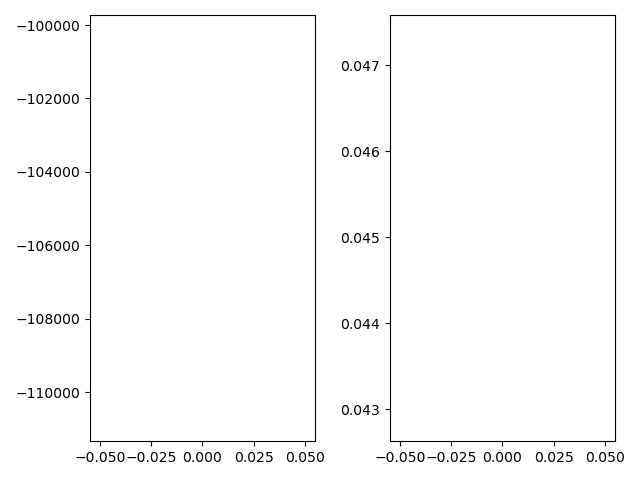
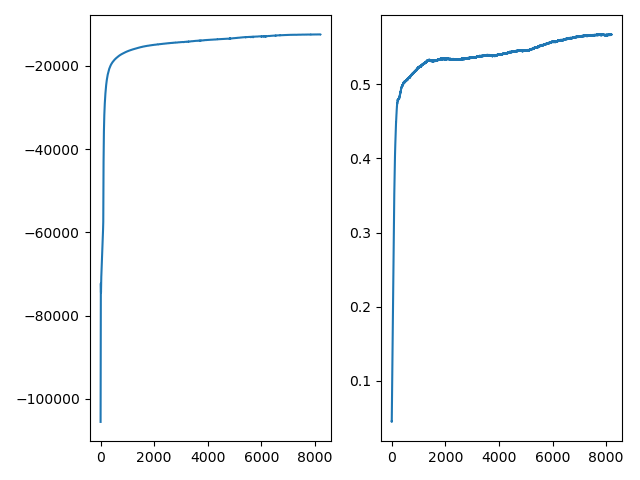
fix theta index so runs with GP version

diff --git a/inference.py b/inference.py
@@ -75,7 +75,7 @@ def structured_elbo_s(key, theta, phi_s, logpx, cov_fn, x, t, tau, nsamples,
 def structured_elbo(key, theta, phi, logpx, cov_fn, x, t, nsamples, kss):
     nsamples_s, nsamples_tau = nsamples
     theta_x, theta_cov, theta_tau = theta
-    theta_tau = 2.+jnp.exp(theta_tau)
+    theta_tau = 2.+jnp.exp(theta_tau[0]) # [0] needed here; see avg_neg_elb
     phi_s, phi_tau = phi[:2]
     W, m, tu = phi_s
     N = phi_tau[0].shape[0]
@@ -163,8 +163,7 @@ def avg_neg_elbo(key, theta, phi_n, logpx, cov_fn, x, t, nsamples, elbo_fn):
         ls_min=jnp.min(t_dist_mat[jnp.triu_indices_from(t_dist_mat, k=1)]),
         ls_max=jnp.max(t_dist_mat[jnp.triu_indices_from(t_dist_mat, k=1)])
     )
-    theta = (theta_x, theta_cov, theta[2])
-
+    theta = (theta_x, theta_cov, theta[2:])
     # pre-compute diagonal cov as it's same for all samples at same locations
     kss = vmap(K_N_diag, in_axes=(0, 0, None, None, None))(
        t, t, cov_fn, theta_cov, 1.)
